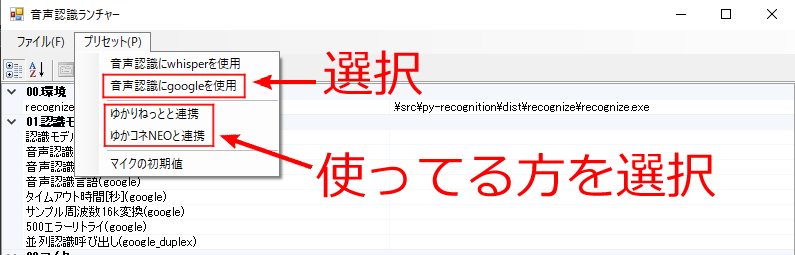
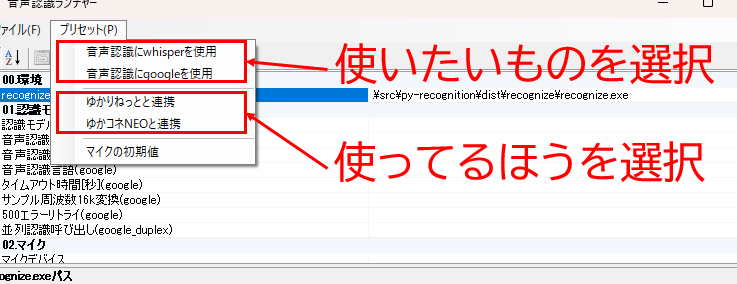
追記と画像差し替え

diff --git a/docs/KANTAN.md b/docs/KANTAN.md
@@ -21,6 +21,8 @@ recognize-gui.exeをダブルクリックで実行します。
 
 ![_](assets/kantan03.png)
 
+※whisperを実用的に使うにはPCにNVIDIAのGPUが搭載されている必要があります
+
 ### 認識モデル
 認識モデルはプリセット選択後以下のように表示されていればOKです！
 
@@ -46,7 +48,7 @@ recognize-gui.exeをダブルクリックで実行します。
 ### 最低音声認識時間と発声を止めたと認識するための無音時間の設定！
 難しそうですがひとまずプリセットで初期値を入れられます。
 
-![_](assets/kantan06-1.png)
+![_](assets/kantan07.png)
 
 
 ### まず認識テスト！
@@ -72,7 +74,7 @@ recognize-gui.exeをダブルクリックで実行します。
 3. 認識中の表示が出たらなにかしゃべってみます
 4. それに合わせてボイロがしゃべる…！
 
-![_](assets/kantan12.png)
+![_](assets/kantan10.png)
 
 どうですか？問題なく動きましたか？設定はここまでです。お疲れさまでした…！  
 設定は保存されるので次回からは起動ボタンだけでOKですよ！
